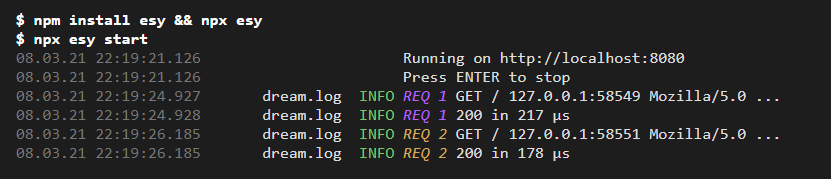
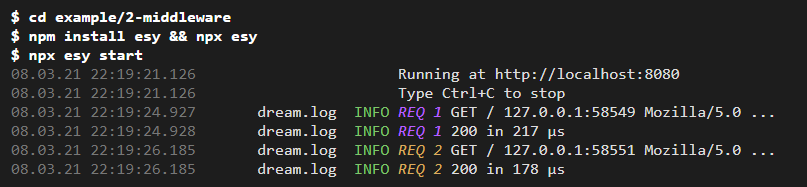
Tweak examples

Changed region(s): [[0.3098, 0.2793, 0.9603, 0.9497], [0.0, 0.0559, 0.3408, 0.9497]]

diff --git a/docs/asset/log-sanitized.html b/docs/asset/log-sanitized.html
@@ -38,7 +38,8 @@ b {
 </head>
 <body>
 
-<pre><code><b>$ npm install esy && npx esy</b>
+<pre><code><b>$ cd example/2-middleware</b>
+<b>$ npm install esy && npx esy</b>
 <b>$ npx esy start</b>
 <span class="dim">08.03.21 22:19:21.126</span>                       Running at http://localhost:8080
 <span class="dim">08.03.21 22:19:21.126</span>                       Type Ctrl+C to stop

diff --git a/example/w-esy/README.md b/example/w-esy/README.md
@@ -14,6 +14,9 @@ and looks like this:
     "@opam/dune": "^2.0",
     "ocaml": "4.12.x"
   },
+  "resolutions": {
+    "@opam/conf-libev": "esy-packages/libev:package.json#0b5eb6685b688649045aceac55dc559f6f21b829"
+  },
   "scripts": {
     "run": "dune exec --root . ./hello.exe"
   }
@@ -78,14 +81,21 @@ this example to keep it in sync with the Dream repo and its upstream projects.
 But this deliberately gives up reproducible builds &mdash; something you
 usually want for your own code.
 
-If you'd like to find out the exact version of Dream esy installed, you can look
-in `esy.lock/index.json`, or run `npx esy ls-builds`.
+If you'd like to find out the exact version of Dream that esy installed, you
+can look in `esy.lock/index.json`, or run `npx esy ls-builds`.
+
+<br>
+
+To copy out a binary generated by esy, run
+
+<pre><code><b>$ npx esy cp '#{self.target_dir}/default/my-binary.exe' .
+</b></code></pre>
 
 <br>
 
 You can develop a JavaScript client side-by-side with the server as normal,
 with npm or Yarn. Just add `package.json` like you normally would. You may want
-to include `esy` itself as a *JavaScript* dependency, so that npm will not
+to include `esy` itself as a *JavaScript* dependency, so that npm does not
 uninstall it from your project:
 
 ```json

diff --git a/example/w-one-binary/README.md b/example/w-one-binary/README.md
@@ -87,7 +87,7 @@ gives the source link and license information for the image.
 
 Copy the binary out for deployment with
 
-<pre><code><b>npx esy cp '#{self.target_dir}/default/one_binary.exe' .
+<pre><code><b>$ npx esy cp '#{self.target_dir}/default/one_binary.exe' .
 </b></code></pre>
 
 It will continue to serve the camel no matter where it is moved to! The
@@ -97,7 +97,7 @@ It will continue to serve the camel no matter where it is moved to! The
 
 If you'd like to inspect the generated `assets.ml` yourself, run
 
-<pre><code><b>npx esy less '#{self.target_dir}/default/assets.ml'
+<pre><code><b>$ npx esy less '#{self.target_dir}/default/assets.ml'
 </b></code></pre>
 
 To add more files, just add them to the `assets/` directory and re-run

diff --git a/example/1-hello/README.md b/example/1-hello/README.md
@@ -31,7 +31,7 @@ Playground](http://dream.as/1-hello).
 
 If you'd like to copy out the server binary, you can do it like this:
 
-<pre><code><b>npx esy cp '#{self.target_dir}/default/hello.exe' .
+<pre><code><b>$ npx esy cp '#{self.target_dir}/default/hello.exe' .
 </b></code></pre>
 
 The name will change as you go through the tutorial examples. It's always the
